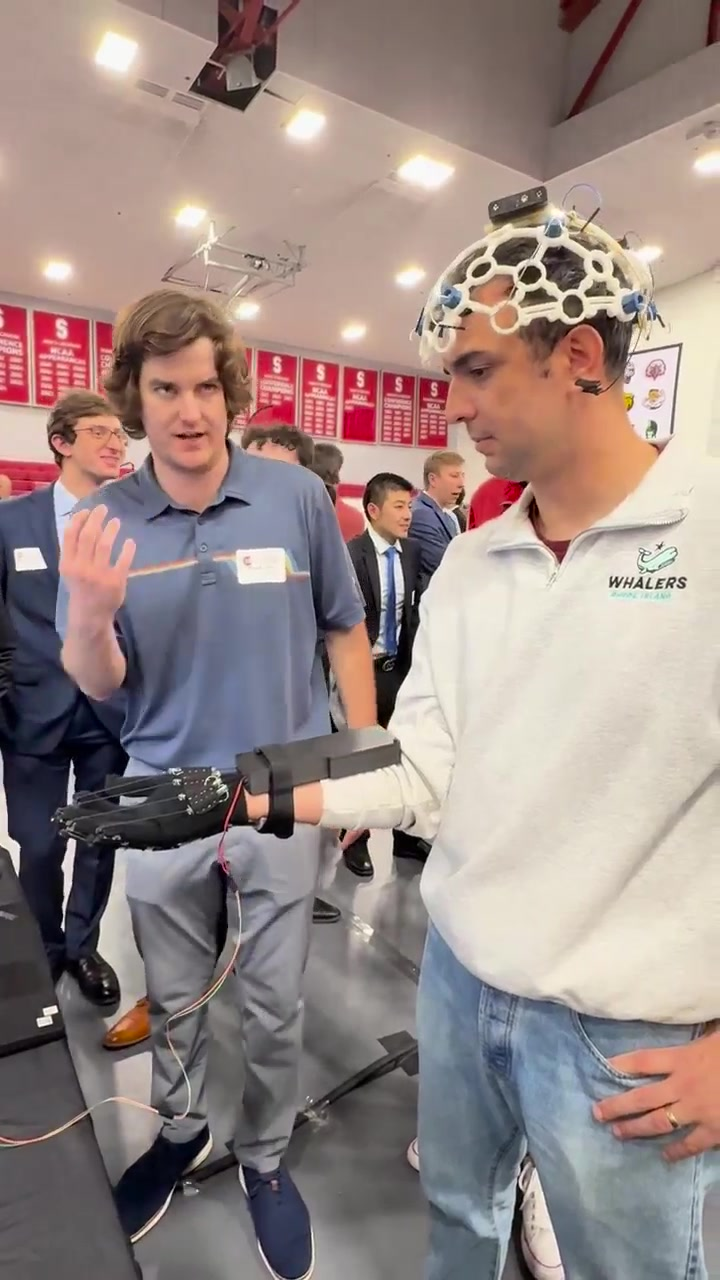
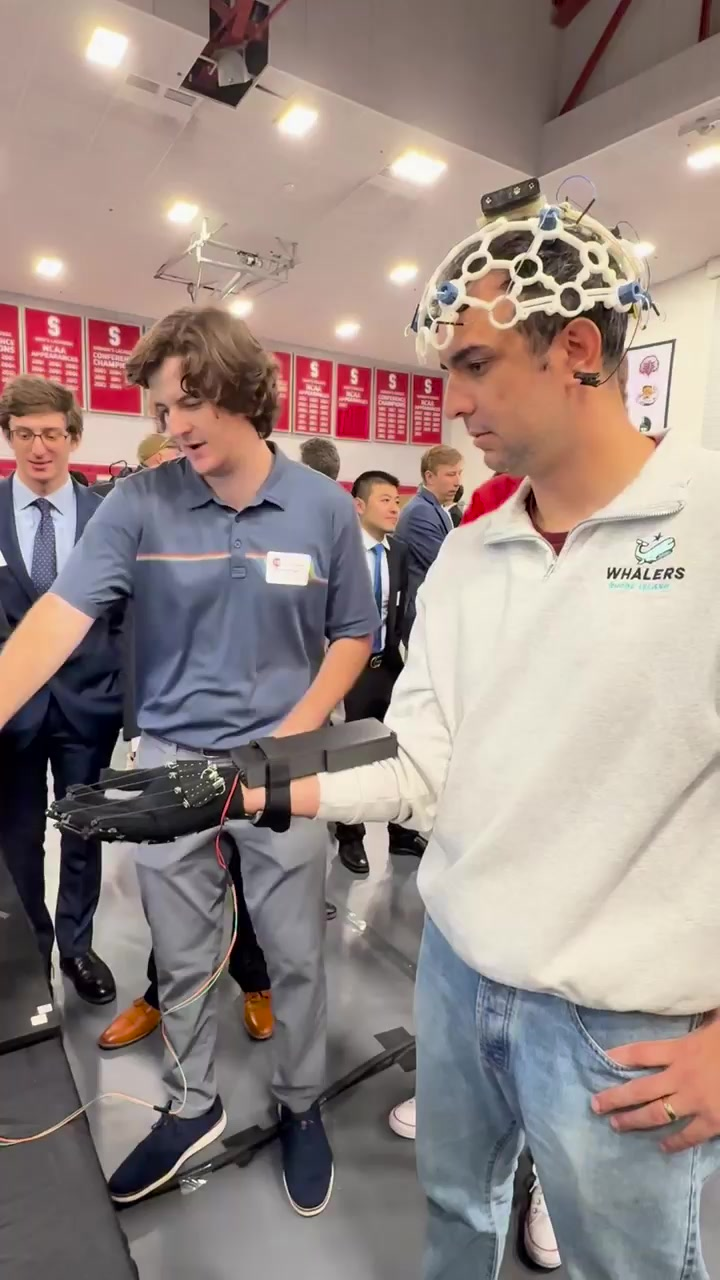
Replace hero with Stevens Innovation Expo booth still
Update hero.jpg to a cleaner expo booth photo of Dave (left, dark polo)
and teammate (right, EEG headset and glove). Adjust HomeHero
object-position to center_40% so both subjects stay in frame.

diff --git a/components/HomeHero.tsx b/components/HomeHero.tsx
@@ -9,7 +9,7 @@ export function HomeHero() {
         alt={`${site.name} demonstrating SYNC at the Stevens Innovation Expo`}
         fill
         priority
-        className="object-cover object-[center_35%]"
+        className="object-cover object-[center_40%]"
         sizes="100vw"
       />
       <div
